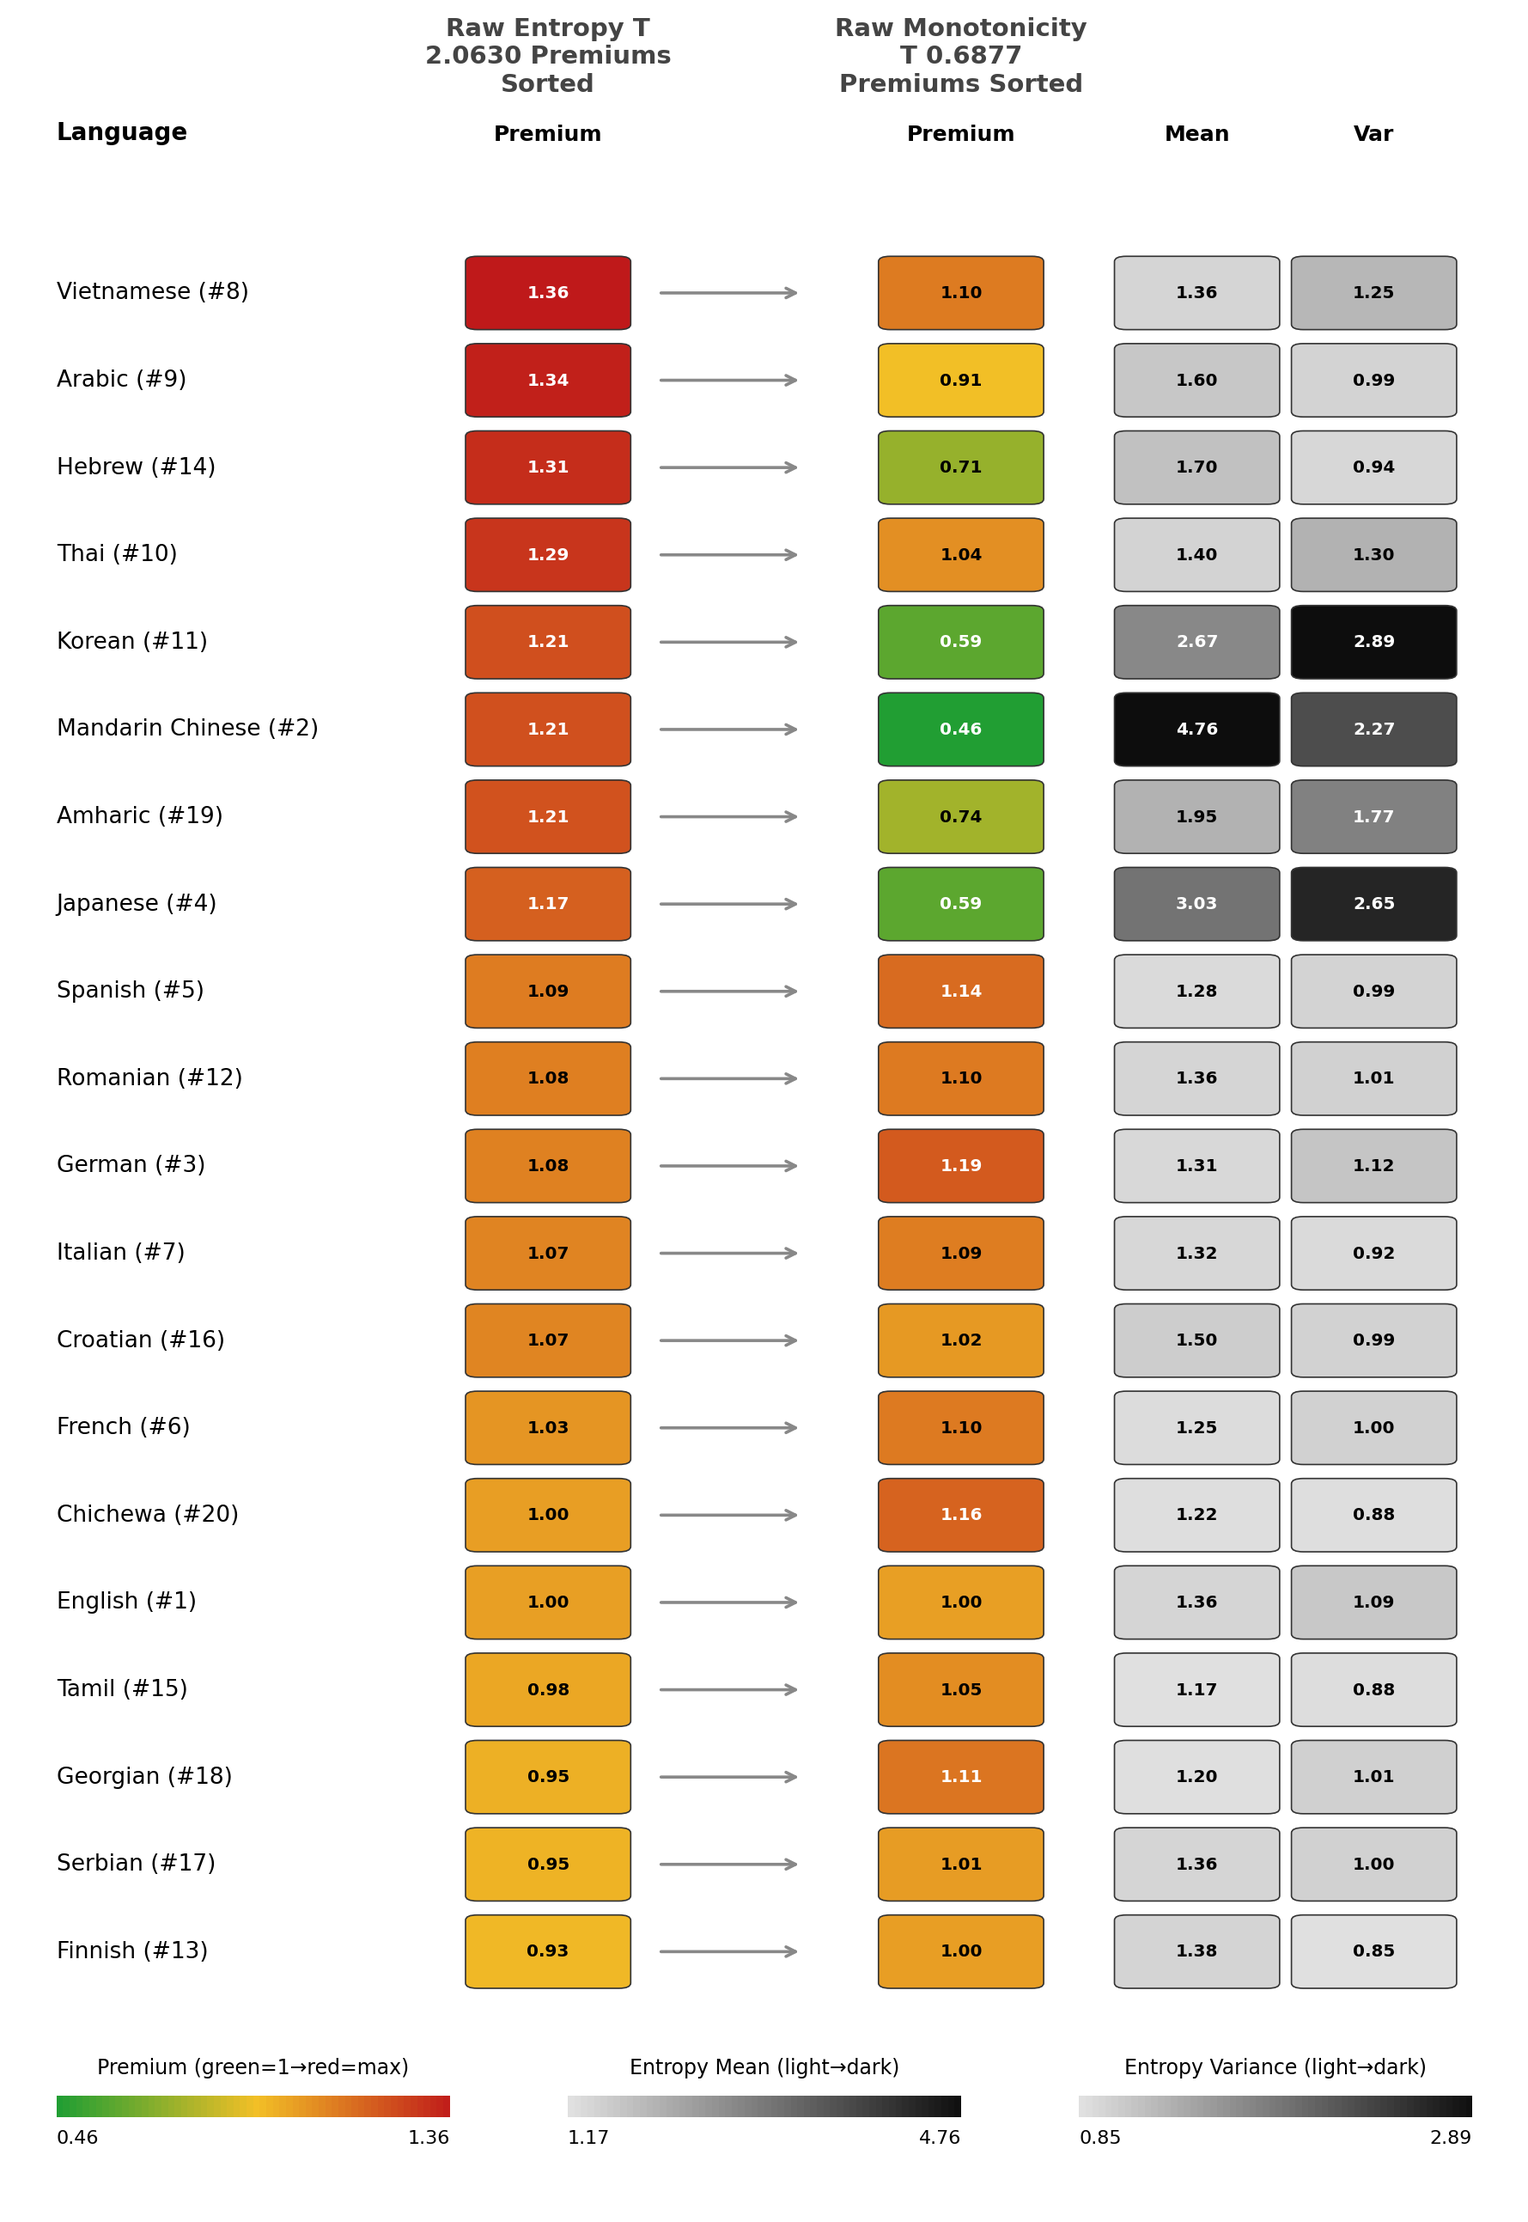
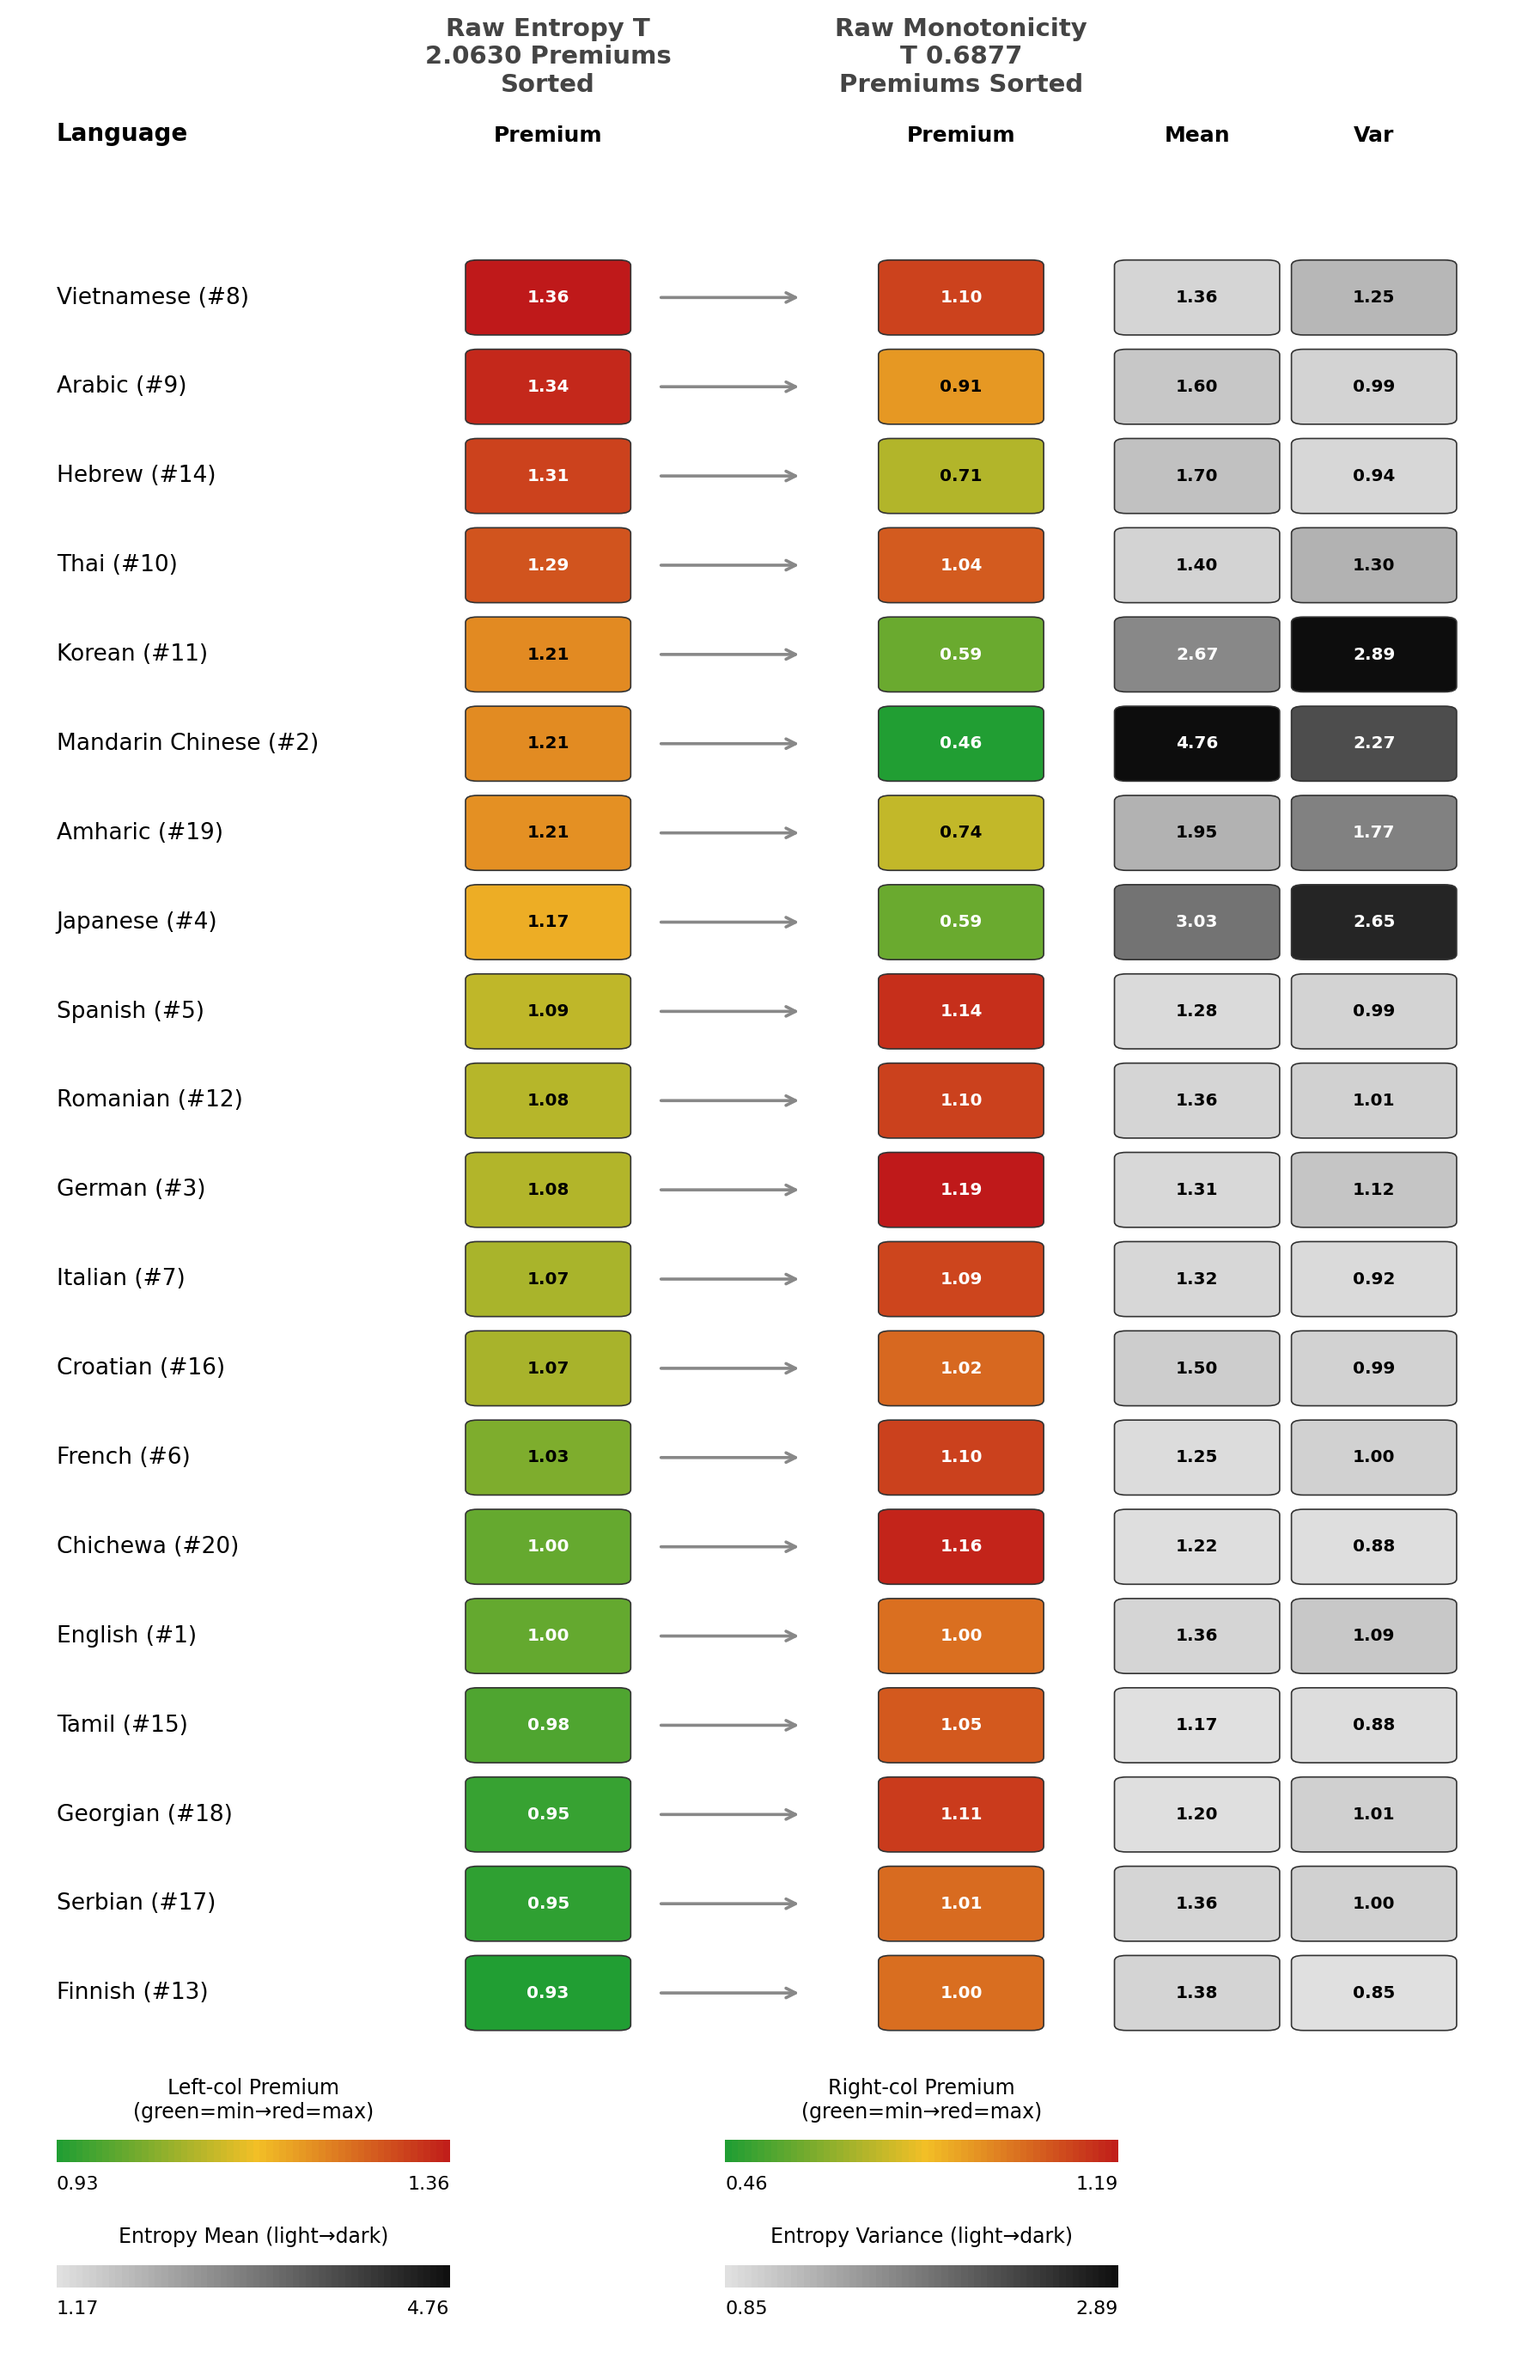
change viz so that mono and global have their own scales

diff --git a/results/txt_premiums_to_chart_alternative.py b/results/txt_premiums_to_chart_alternative.py
@@ -10,7 +10,8 @@ Takes three input files:
 ...and visualizes how each language's "premium" changes between the two
 rankings, using color instead of raw numbers:
 
-  - Premium:              green (=1, baseline) -> red (=max, across both files)
+  - Premium:              green (=min in that column) -> red (=max in that column)
+                          EACH COLUMN GETS ITS OWN SCALE (see note below).
   - Entropy Mean / Var:   light grey (=min) -> black (=max, across both files)
                           (shown once per language - these don't change
                           between rankings)
@@ -18,6 +19,17 @@ rankings, using color instead of raw numbers:
 Training-data volume isn't color-coded; instead each language's rank by
 training-data size (1 = most bytes) is shown in brackets next to its name,
 e.g. "English (#1)", "Mandarin Chinese (#2)".
+
+PREMIUM COLOR SCALE (per-column, not shared):
+    The two Premium columns each get their OWN green->red scale, based on
+    that column's own min/max, rather than a scale shared across both
+    columns. This matters because the two rankings can have different
+    minimums - e.g. under one ranking English's premium of 1.00 might be
+    the lowest value in that column (and should render as pure green),
+    while under the other ranking some other language dips below 1.00.
+    A shared scale would use the lower of the two columns' minimums for
+    BOTH columns, making a column's own true "best" value not render as
+    pure green. Scoping each column to its own range fixes that.
 
 COLUMN ORDER (left to right):
     Language (full name, with training-data rank) | Premium -> Premium | Mean | Var
@@ -46,7 +58,7 @@ row per language. The script auto-detects:
   Numbers may contain thousands-separator commas; those are stripped.
 
 USAGE
-    python3 premium_color_chart.py <entropy_file> <monotonicity_file> [lang_data_csv]
+    python3 txt_premiums_to_chart_alternative.py <entropy_file> <monotonicity_file> [lang_data_csv]
 
     lang_data_csv defaults to "training_setup/langs/langs_chosen.csv" if
     omitted.
@@ -77,8 +89,6 @@ matplotlib.use("Agg")
 import matplotlib.pyplot as plt
 import matplotlib.patches as patches
 
-
-TRAINING_DATA_LOG_SCALE = True  # see note above
 
 # Built-in language-name <-> code map. Extend this if you add languages
 # that aren't covered yet.
@@ -286,17 +296,9 @@ def green_red_gradient(t):
 
 
 def premium_color(p, p_min, p_max):
-    """Low premium (1) = green, high premium = red."""
+    """Low premium (column min) = green, high premium (column max) = red."""
     t = (p - p_min) / (p_max - p_min) if p_max > p_min else 0
     return green_red_gradient(t)
-
-
-def training_color(v, vmin, vmax, log_scale=TRAINING_DATA_LOG_SCALE):
-    """High byte count = green, low byte count = red (inverse of premium)."""
-    if log_scale:
-        v, vmin, vmax = np.log10(max(v, 1)), np.log10(max(vmin, 1)), np.log10(max(vmax, 1))
-    t = (v - vmin) / (vmax - vmin) if vmax > vmin else 0
-    return green_red_gradient(1 - t)  # invert: more data -> green
 
 
 def grey_color(v, vmin, vmax):
@@ -337,11 +339,17 @@ def draw_chart(table1, table2, training_data, label1, label2, out_path):
         )
     }
 
-    all_premiums = [v[0] for v in table1.values()] + [v[0] for v in table2.values()]
     all_means = [table1[l][1] for l in langs] + [table2[l][1] for l in langs]
     all_vars = [table1[l][2] for l in langs] + [table2[l][2] for l in langs]
 
-    p_min, p_max = min(1.0, min(all_premiums)), max(all_premiums)
+    # Premium: separate scale PER COLUMN (see module docstring). table1's
+    # own min/max drives the left Premium column's color; table2's own
+    # min/max drives the right one. NOT shared across both columns.
+    p1_vals = [table1[l][0] for l in langs]
+    p2_vals = [table2[l][0] for l in langs]
+    p1_min, p1_max = min(p1_vals), max(p1_vals)
+    p2_min, p2_max = min(p2_vals), max(p2_vals)
+
     m_min, m_max = min(all_means), max(all_means)
     v_min, v_max = min(all_vars), max(all_vars)
 
@@ -354,10 +362,10 @@ def draw_chart(table1, table2, training_data, label1, label2, out_path):
     extra_top = header_line_h * (title_lines - 1)
 
     n = len(langs)
-    fig_h = n * 0.5 + 2.3 + extra_top
+    fig_h = n * 0.5 + 3.2 + extra_top   # +3.2 to fit the 2-row legend below
     fig, ax = plt.subplots(figsize=(9, fig_h))
     ax.set_xlim(0, 7.6)
-    ax.set_ylim(-2.2, n + 1.5 + extra_top)
+    ax.set_ylim(-3.4, n + 1.5 + extra_top)
     ax.axis("off")
 
     sq = 0.8
@@ -405,15 +413,15 @@ def draw_chart(table1, table2, training_data, label1, label2, out_path):
 
         ax.text(x_lang, y + sq / 2, lang_label, fontsize=9.5, va="center", fontweight="medium")
 
-        draw_square(x1_p, y, premium_color(p1, p_min, p_max), p1)
+        draw_square(x1_p, y, premium_color(p1, p1_min, p1_max), p1)
         ax.annotate("", xy=(x_arrow + 0.6, y + sq / 2), xytext=(x_arrow - 0.15, y + sq / 2),
                     arrowprops=dict(arrowstyle="->", color="#888888", lw=1.3))
-        draw_square(x2_p, y, premium_color(p2, p_min, p_max), p2)
+        draw_square(x2_p, y, premium_color(p2, p2_min, p2_max), p2)
 
         draw_square(x_mean, y, grey_color(mean, m_min, m_max), mean)
         draw_square(x_var, y, grey_color(var, v_min, v_max), var)
 
-    # ---- legend (single row, 3 gradients) ----
+    # ---- legend (2 rows: premium x2 on top, mean/var below) ----
     grad_w = 2.0
     n_steps = 60
 
@@ -429,16 +437,20 @@ def draw_chart(table1, table2, training_data, label1, label2, out_path):
             ))
         ax.text(x0, y0 - 0.3, label_formatter(vmin), fontsize=8, ha="left")
         ax.text(x0 + grad_w, y0 - 0.3, label_formatter(vmax), fontsize=8, ha="right")
-        ax.text(x0 + grad_w / 2, y0 + 0.5, label, fontsize=8.5, ha="center")
+        ax.text(x0 + grad_w / 2, y0 + 0.5, label, fontsize=8.5, ha="center",
+                multialignment="center")
 
-    leg_y = -1.2
-    draw_gradient_legend(0.2, leg_y, p_min, p_max,
-                          lambda v: premium_color(v, p_min, p_max),
-                          "Premium (green=1\u2192red=max)")
-    draw_gradient_legend(2.8, leg_y, m_min, m_max,
+    row1_y, row2_y = -1.2, -2.6
+    draw_gradient_legend(0.2, row1_y, p1_min, p1_max,
+                          lambda v: premium_color(v, p1_min, p1_max),
+                          "Left-col Premium\n(green=min\u2192red=max)")
+    draw_gradient_legend(3.6, row1_y, p2_min, p2_max,
+                          lambda v: premium_color(v, p2_min, p2_max),
+                          "Right-col Premium\n(green=min\u2192red=max)")
+    draw_gradient_legend(0.2, row2_y, m_min, m_max,
                           lambda v: grey_color(v, m_min, m_max),
                           "Entropy Mean (light\u2192dark)")
-    draw_gradient_legend(5.4, leg_y, v_min, v_max,
+    draw_gradient_legend(3.6, row2_y, v_min, v_max,
                           lambda v: grey_color(v, v_min, v_max),
                           "Entropy Variance (light\u2192dark)")
 
